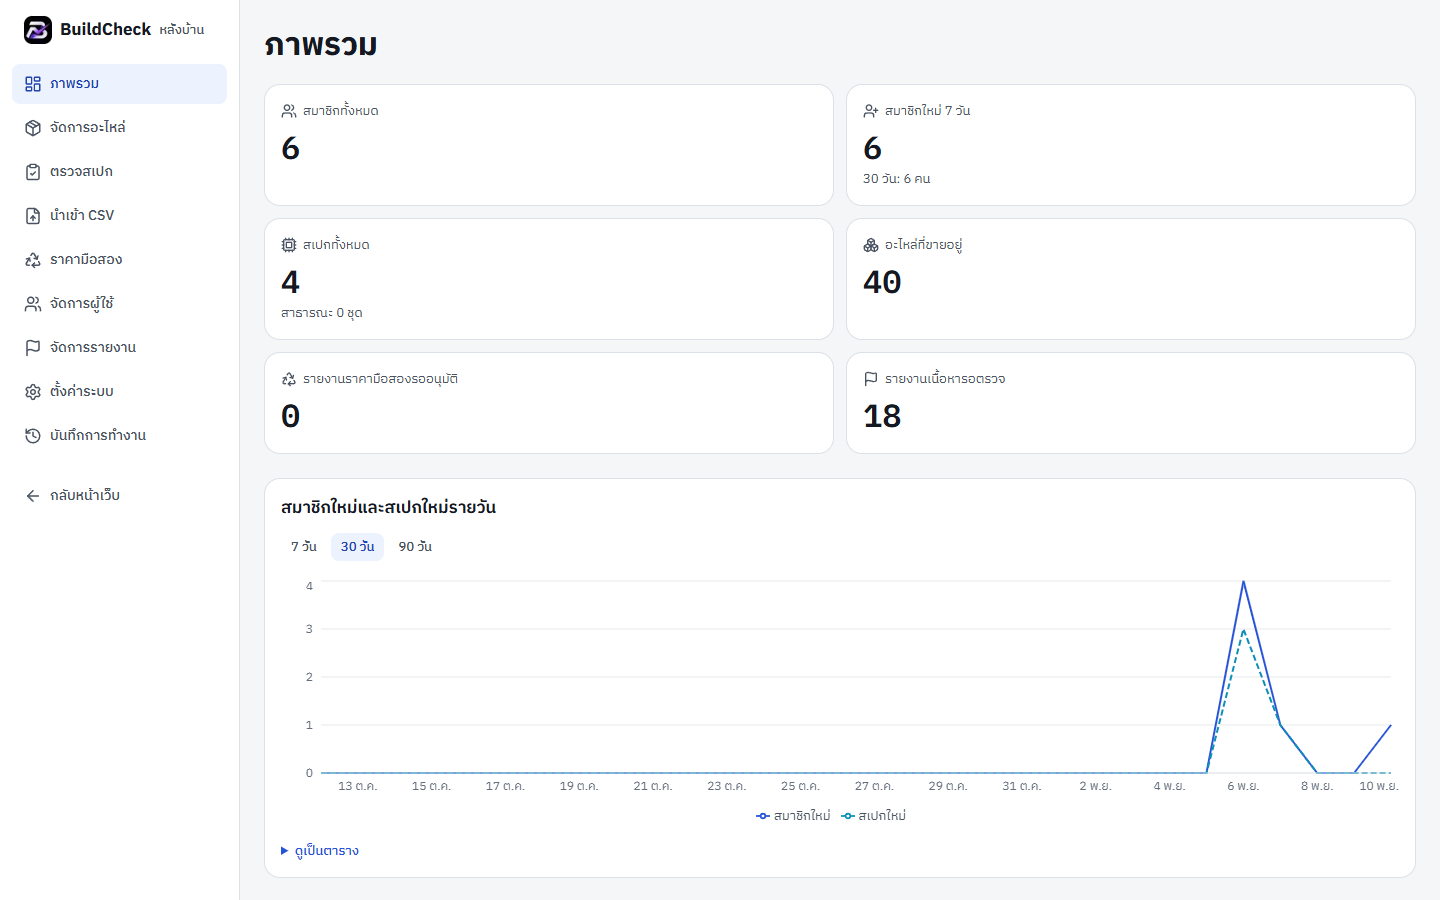
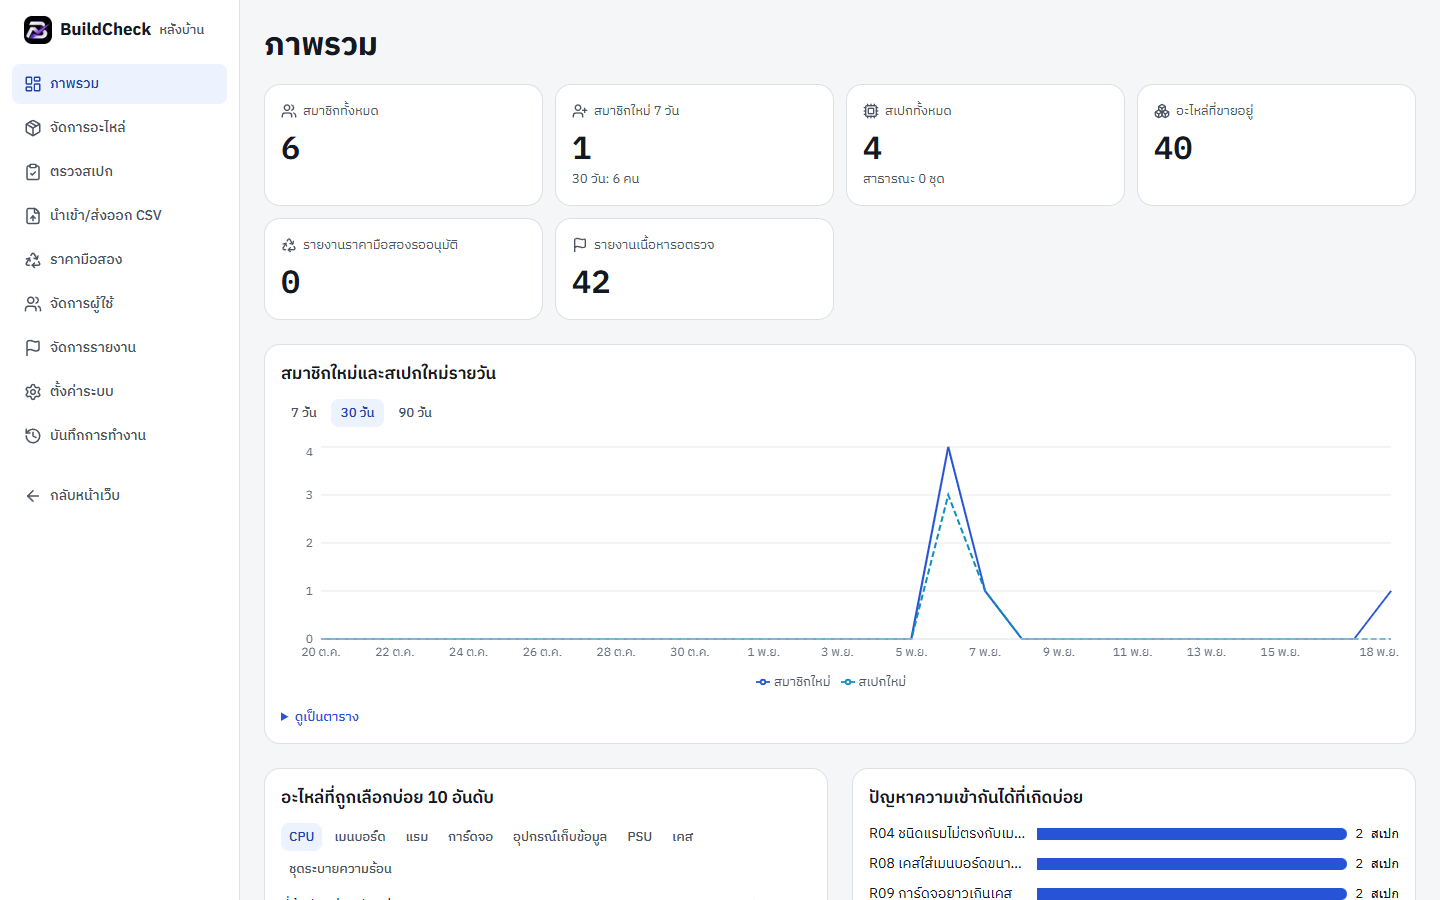
รูปหน้าจอหลังบ้านที่เหลือ 4.18, 4.22–4.24, 4.26, 4.27 ถ่ายใหม่ เมนูตรงกับหน้าปัจจุบัน (นำเข้า/ส่งออก CSV) · อีเมลจริงในรูปปิดไว้เหมือนเดิม

diff --git a/docs/report-chapters-3-4.md b/docs/report-chapters-3-4.md
@@ -217,7 +217,7 @@ BuildCheck เป็นเว็บแอปพลิเคชันจัดส
 | 4.14–4.16 | `14-mobile-home.png` · `15-mobile-parts.png` · `16-mobile-budget.png` | หน้าจอบนมือถือ (แถบเมนูด้านล่าง) |
 | 4.17 | `17-home-dark.png` | โหมดมืด |
 
-**รูปหน้าหลังบ้าน** ถ่ายจากเครื่องพัฒนาด้วยบัญชีแอดมินทดสอบ (อะไหล่ชุดแรก 40 รุ่นเดียวกับเว็บจริง แต่จำนวนผู้ใช้และรายงานเป็นข้อมูลทดสอบ) อีเมลจริงในรูปถูกปิดไว้ · รูป 4.19–4.21 และ 4.25 ถ่ายใหม่เมื่อ 18 พ.ย. 2569 หลังเพิ่มการส่งออก CSV และการวางรูปด้วย Ctrl+V
+**รูปหน้าหลังบ้าน** ถ่ายจากเครื่องพัฒนาด้วยบัญชีแอดมินทดสอบ (อะไหล่ชุดแรก 40 รุ่นเดียวกับเว็บจริง แต่จำนวนผู้ใช้และรายงานเป็นข้อมูลทดสอบ) อีเมลจริงในรูปถูกปิดไว้ · ถ่ายใหม่ทั้งหมดเมื่อ 18 พ.ย. 2569 หลังเพิ่มการส่งออก CSV และการวางรูปด้วย Ctrl+V
 
 | รูป | ไฟล์ | คำอธิบาย |
 |---|---|---|
